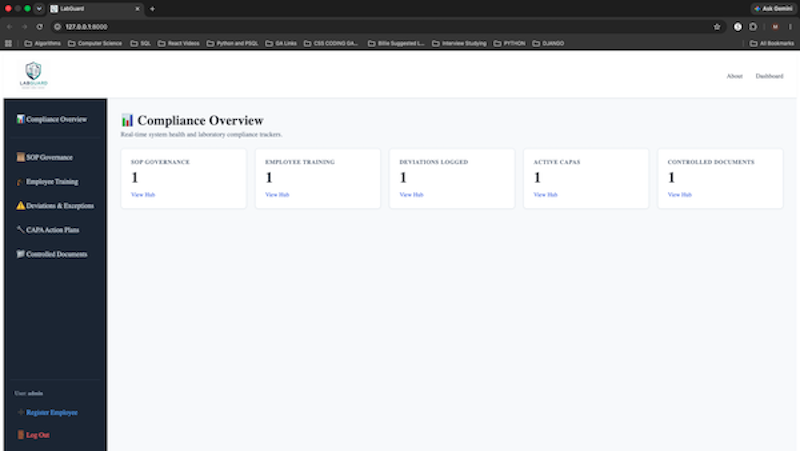
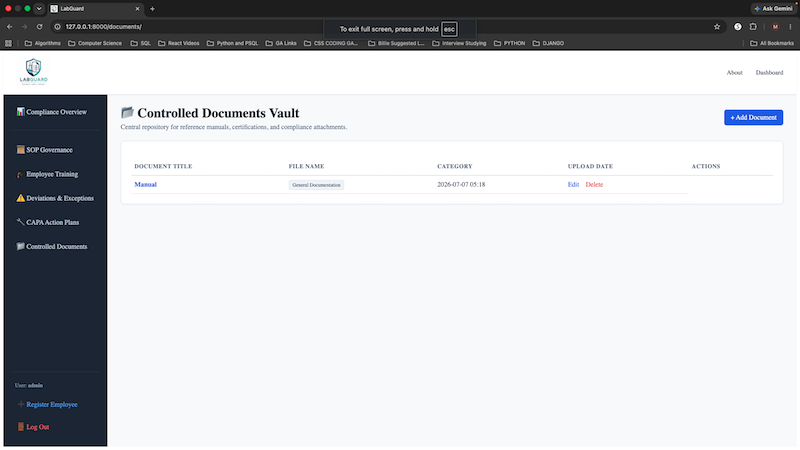
Updated Database & LabGuardDashboard

diff --git a/labguard/settings.py b/labguard/settings.py
@@ -82,8 +82,8 @@ WSGI_APPLICATION = 'labguard.wsgi.application'
 
 DATABASES = {
     'default': {
-        'ENGINE': 'django.db.backends.sqlite3',
-        'NAME': BASE_DIR / 'db.sqlite3',
+        'ENGINE': 'django.db.backends.postgresql',
+        'NAME': 'labguard',
     }
 }
 
@@ -127,5 +127,3 @@ STATIC_ROOT = BASE_DIR / 'staticfiles'
 
 LOGIN_URL = 'main_app:login'
 
-import django_on_heroku
-django_on_heroku.settings(locals())